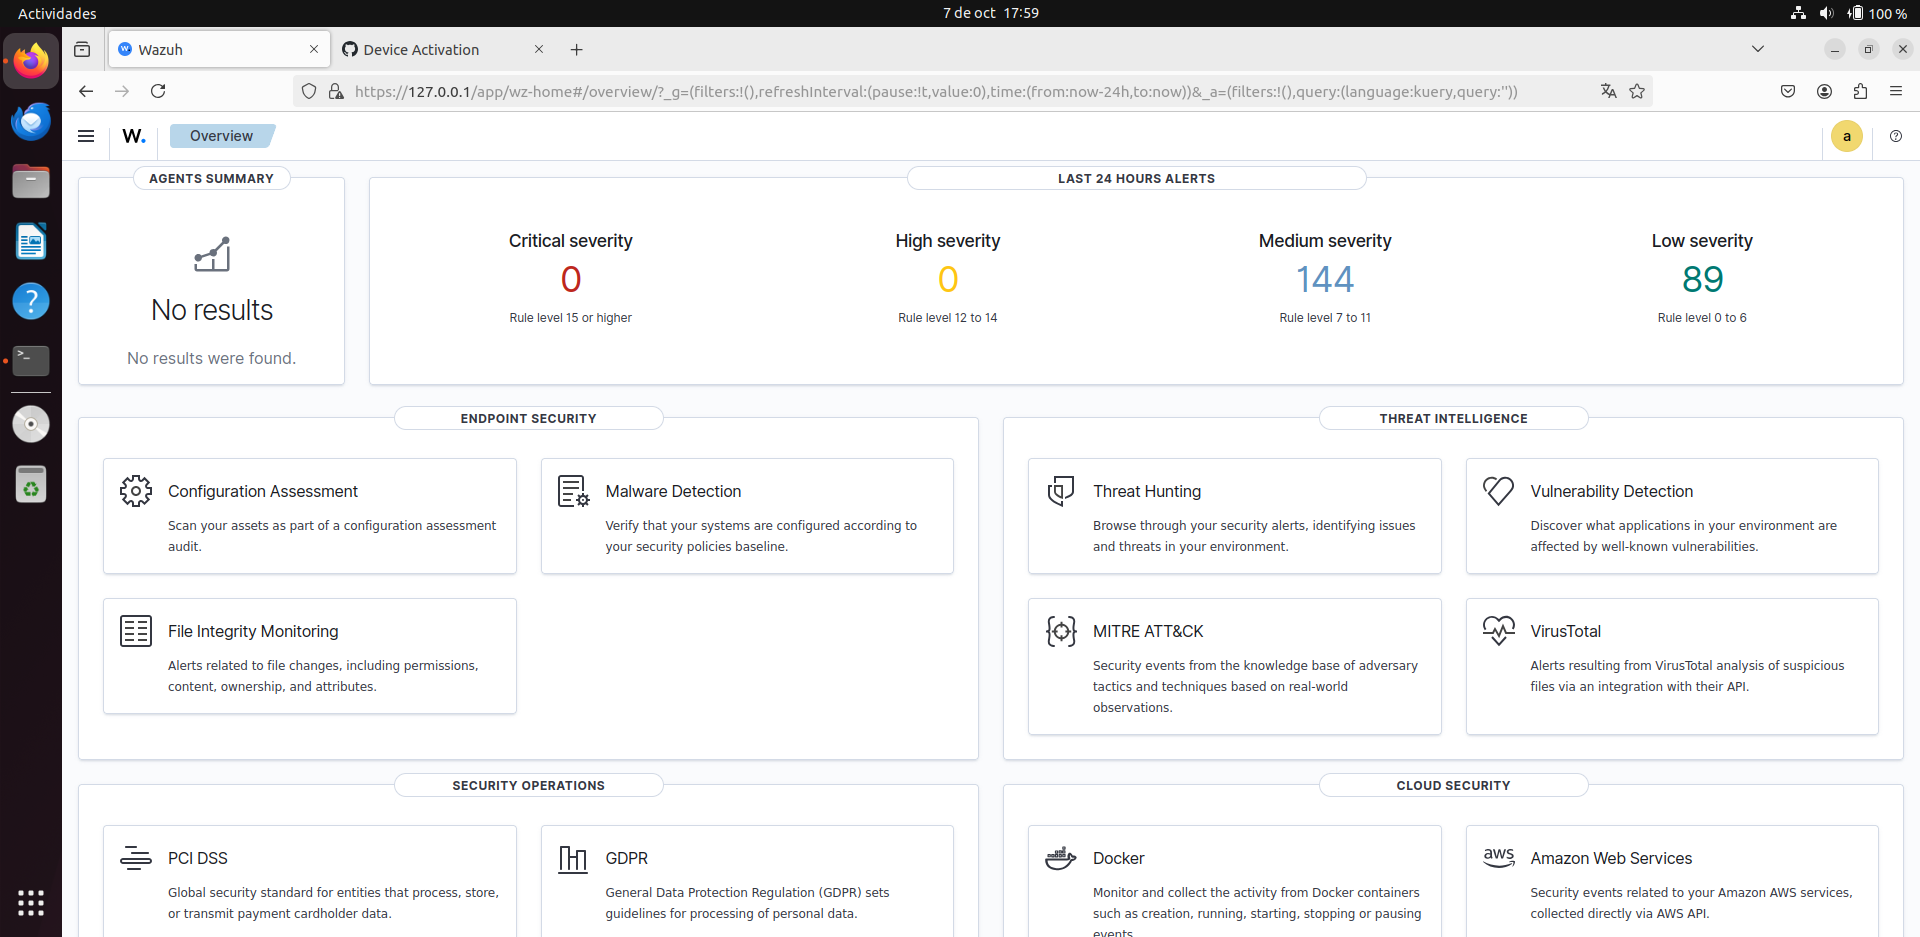
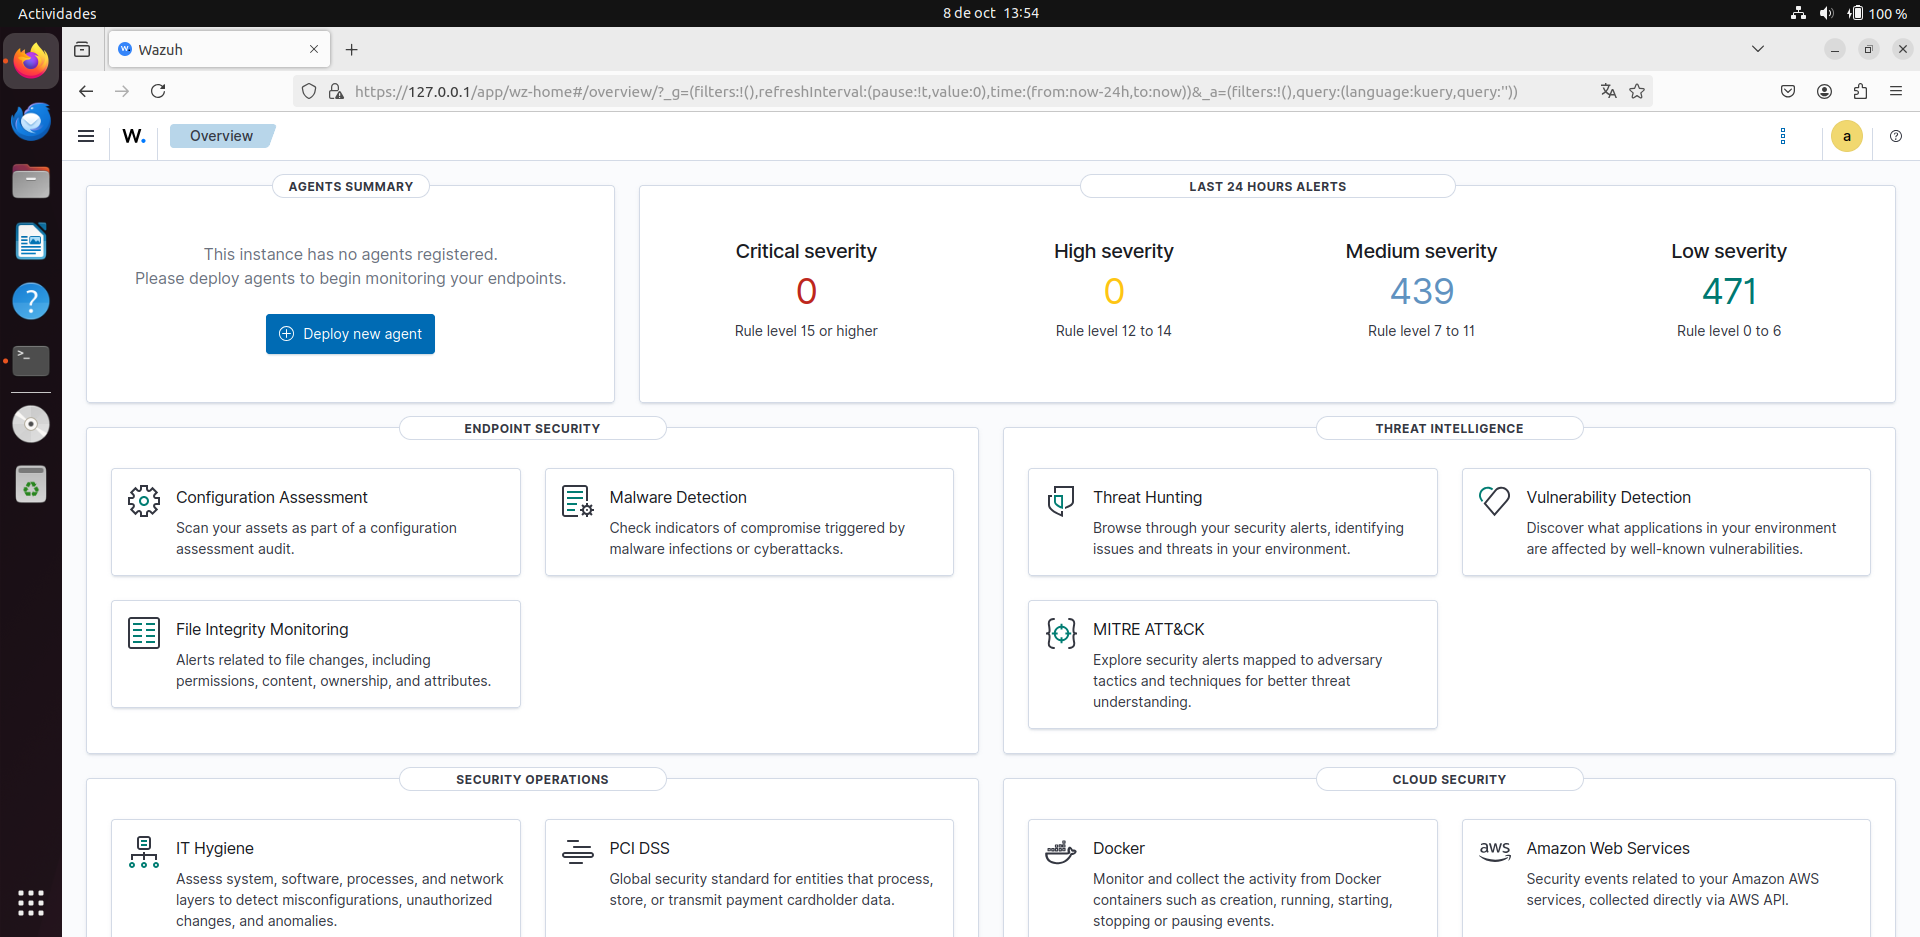
docs: add incidents log and update dashboard evidence
- Add docs/04-incidents.md documenting two real incidents
  - Incident 1: wazuh-agent overwrites wazuh-manager on same host
  - Incident 2: dashboard broken after manager reinstall (403 + version_conflict)
- Update dashboard-overview.png with functional dashboard screenshot
- Add section 11 to README linking to incident reports

diff --git a/docs/04-incidents.md b/docs/04-incidents.md
@@ -1,0 +1,184 @@
+# Incidencias y resolución
+
+Registro de problemas reales encontrados durante la construcción del laboratorio
+y de cómo se resolvieron. Los errores documentados valen más que el camino
+feliz: demuestran criterio técnico y capacidad de diagnóstico.
+
+---
+
+## Incidente 1: Wazuh agent destruye Wazuh manager al instalarse en el mismo host
+
+**Fecha:** 2026-10-08
+
+### Síntoma
+
+Tras ejecutar `apt install wazuh-agent` en la misma máquina donde corría
+`wazuh-manager`:
+
+- El servicio `wazuh-manager` desapareció:
+  `Unit wazuh-manager.service could not be found`.
+- El paquete `wazuh-manager` quedó marcado como `rc` en `dpkg -l`
+  (removed, config remaining).
+- Los binarios del manager en `/var/ossec/bin/` (`agent_control`,
+  `wazuh-remoted`, `wazuh-analysisd`, etc.) desaparecieron, sustituidos por
+  los del agente (`wazuh-agentd`, `wazuh-execd`, etc.).
+
+### Causa
+
+Los paquetes `wazuh-manager` y `wazuh-agent` **comparten rutas**
+(`/var/ossec/`), usuario (`wazuh`) y algunos binarios con el mismo nombre
+(`manage_agents`, `wazuh-control`). Al instalar el agente, `apt` detecta un
+conflicto con `wazuh-manager` y lo **desinstala automáticamente**, dejando
+la configuración en `/var/ossec/etc/`.
+
+### Solución aplicada
+
+```bash
+# 1. Desinstalar el agente
+sudo systemctl stop wazuh-agent
+sudo systemctl disable wazuh-agent
+sudo apt remove --purge wazuh-agent -y
+sudo apt autoremove -y
+
+# 2. Reinstalar el manager conservando la configuración
+sudo apt update
+sudo apt install --reinstall wazuh-manager -y
+
+# 3. Arrancar y verificar
+sudo systemctl daemon-reload
+sudo systemctl enable wazuh-manager
+sudo systemctl start wazuh-manager
+```
+
+Tras esto, los binarios del manager volvieron a `/var/ossec/bin/` y el
+servicio arrancó correctamente.
+
+### Lección
+
+**Nunca instalar `wazuh-agent` en el mismo host donde corre `wazuh-manager`.**
+
+Regla general:
+
+- **Producción:** agente y manager en máquinas distintas.
+- **Laboratorio:** si no hay más remedio, usar contenedores Docker para
+  aislar agentes, o una VM separada exclusivamente para agentes de prueba.
+
+---
+
+## Incidente 2: Dashboard roto tras reinstalar el manager (403 + version_conflict)
+
+**Fecha:** 2026-10-08
+
+### Síntoma
+
+Tras recuperar el manager (Incidente 1), el dashboard mostraba:
+
+- `[API connection] No API available to connect`
+- `[Alerts index pattern] version conflict, document already exists`
+- `[Statistics index pattern] version conflict, document already exists`
+
+Además, los logs del dashboard mostraban en bucle:
+
+```
+{"tags":["error","plugins","wazuh","monitoring"],
+ "message":"Request failed with status code 403"}
+```
+
+### Causa
+
+Al reinstalar `wazuh-manager` se regeneraron las credenciales internas y la
+configuración del plugin Wazuh del dashboard quedó desincronizada:
+
+1. El índice `.kibana_1` mantenía *index-patterns* huérfanos con IDs que
+   colisionaban con los que el dashboard intentaba crear.
+2. El fichero `wazuh.yml` del plugin seguía apuntando a credenciales antiguas
+   (por defecto `wazuh-wui`), que la nueva API rechazaba con
+   **403 Forbidden**.
+
+### Solución aplicada
+
+**Parte A — Reset del índice del dashboard:**
+
+```bash
+sudo systemctl stop wazuh-dashboard
+
+# Backup antes de borrar
+curl -sk -u admin:<PASSWORD> \
+  "https://localhost:9200/.kibana_1/_search?pretty&size=100" \
+  > ~/kibana1-backup.json
+
+# Borrar índices
+curl -sk -X DELETE -u admin:<PASSWORD> "https://localhost:9200/.kibana_1"
+curl -sk -X DELETE -u admin:<PASSWORD> "https://localhost:9200/.kibana_2"
+
+# Limpiar caché en disco
+sudo rm -rf /usr/share/wazuh-dashboard/data/
+
+sudo systemctl start wazuh-dashboard
+sleep 120
+```
+
+**Parte B — Corregir credenciales del plugin:**
+
+```bash
+sudo nano /usr/share/wazuh-dashboard/data/wazuh/config/wazuh.yml
+```
+
+Contenido correcto:
+
+```yaml
+hosts:
+  - default:
+      url: https://localhost
+      port: 55000
+      username: wazuh
+      password: wazuh
+      run_as: false
+```
+
+```bash
+sudo chown wazuh-dashboard:wazuh-dashboard \
+  /usr/share/wazuh-dashboard/data/wazuh/config/wazuh.yml
+sudo chmod 600 /usr/share/wazuh-dashboard/data/wazuh/config/wazuh.yml
+sudo systemctl restart wazuh-dashboard
+```
+
+Tras esto:
+
+- El plugin regeneró `.kibana_1` con sus 20+ documentos.
+- Los errores `403` desaparecieron de los logs.
+- El dashboard mostró los 6 módulos de Wazuh operativos.
+
+### Lección
+
+Tras cualquier operación que **regenera credenciales del manager**
+(reinstall, cambio de contraseñas, restauración desde backup):
+
+1. Verificar que la API responde manualmente:
+   ```bash
+   curl -k -u wazuh:wazuh https://localhost:55000/
+   ```
+2. Revisar y actualizar el fichero `wazuh.yml` del plugin Wazuh del dashboard.
+3. Si hay errores de `version_conflict` en la UI, resetear `.kibana_*`.
+
+---
+
+## Plantilla para próximos incidentes
+
+```markdown
+## Incidente N: <título corto>
+
+**Fecha:** YYYY-MM-DD
+
+### Síntoma
+<qué se observa>
+
+### Causa
+<por qué ocurre>
+
+### Solución aplicada
+<comandos y pasos concretos>
+
+### Lección
+<qué hacer para no repetirlo>
+```

diff --git a/README.md b/README.md
@@ -217,6 +217,18 @@ Nunca ataques sistemas de terceros sin autorización por escrito.
 
 ---
 
+## 11. Incidencias documentadas
+
+Durante la construcción del laboratorio han aparecido problemas reales que
+están documentados en [`docs/04-incidents.md`](docs/04-incidents.md):
+
+- **Incidente 1:** El paquete `wazuh-agent` destruye `wazuh-manager` al
+  instalarse en el mismo host. Lección: agente y manager siempre en
+  máquinas separadas.
+- **Incidente 2:** Tras recuperar el manager, el dashboard quedó roto con
+  errores `403` y `version_conflict`. Lección: revisar `wazuh.yml` y
+  resetear `.kibana_*` cuando cambian las credenciales.
+
 ## Licencia
 
 MIT — ver [LICENSE](LICENSE).
